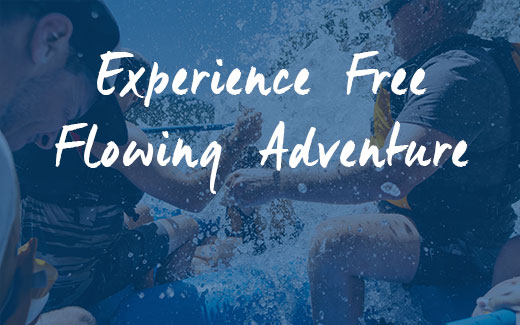
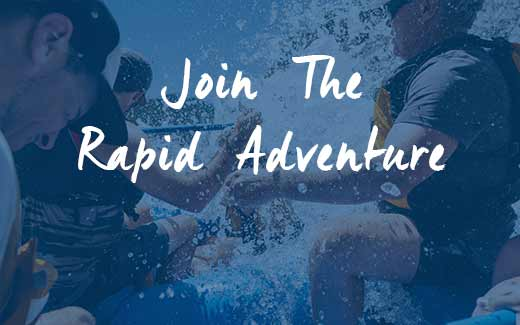
commit project update

Changed region(s): [[0.0923, 0.3692, 0.9231, 0.6154], [0.1846, 0.1538, 0.8308, 0.3385]]

diff --git a/project/index.html b/project/index.html
@@ -49,11 +49,8 @@
         <main>
             <div class="hero">
                 <picture>
-                    <source media="(max-width: 520px)" type="image/webp" srcset="" data-srcset="assets/hero-small.webp">
                     <source media="(max-width: 520px)" type="image/jpeg" srcset="" data-srcset="assets/hero-small.jpg">
-                    <source media="(max-width: 1020px)" type="image/webp" srcset="" data-srcset="assets/hero-med.webp">
                     <source media="(max-width: 1020px)" type="image/jpeg" srcset="" data-srcset="assets/hero-med.jpg">
-                    <source type="image/webp" data-srcset="assets/hero-large.webp">
                     <img src="" data-src="assets/hero-large.jpg" alt="River Rafting">
                 </picture>
                 <div class="CTA">
@@ -64,79 +61,6 @@
             </div>
 
             <section class="weather"></section>
-
-            <!--
-            <section class="blog">
-                <div class="main-article">
-                    <div>
-                        <picture>
-                            <source media="(max-width: 520px)" srcset="assets/small-main-article.jpg">
-                            <source media="(max-width: 1024px)" srcset="assets/med-main-article.jpg">
-                            <source media="(max-width: 1600px)" srcset="assets/large-main-article.jpg">
-                            <img data-src="assets/wide-main-article.jpg" alt="article-title">
-                        </picture>
-                    </div>
-                    <div class="overlay">
-                        <div class="text">
-                            <h3>7 TIPS FOR STAYING CLEAN ON THE RIVER</h3>
-                            <a class="ghost-btn" href="#">Read Blog</a>
-                        </div>
-                    </div>
-                </div>
-            
-                <div class="sub-article">
-                    <div class="container">
-                        <picture>
-                            <source media="(max-width: 520px)" srcset="assets/small-sub-article-1.jpg">
-                            <source media="(max-width: 1024px)" srcset="assets/med-sub-article-1.jpg">
-                            <source media="(max-width: 1600px)" srcset="assets/large-sub-article-1.jpg">
-                            <img data-src="assets/wide-sub-article-1.jpg" alt="article-title">
-                        </picture>
-                        <div class="overlay-small">
-                            <div class="text-small">
-                                <h3>UNDERSTANDING WHITEWATER CLASSIFICATIONS</h3>
-                                <a class="ghost-btn" href="#">Read Blog</a>
-                            </div>
-                        </div>
-                    </div>
-                    <div class="container">
-                        <picture>
-                            <source media="(max-width: 520px)" data-srcset="assets/small-sub-article-2.jpg">
-                            <source media="(max-width: 1024px)" data-srcset="assets/med-sub-article-2.jpg">
-                            <source media="(max-width: 1600px)" data-srcset="assets/large-sub-article-2.jpg">
-                            <img data-src="assets/wide-sub-article-2.jpg" alt="article-title">
-                        </picture>
-                        <div class="overlay-small-2">
-                            <div class="text-small">
-                                <h3>11 MAGICAL THINGS THAT HAPPEN DURING A FAMILY RAFTING TRIP</h3>
-                                <a class="ghost-btn" href="#">Read Blog</a>
-                            </div>
-                        </div>
-                    </div>
-                </div>
-            
-
-            <div>
-                <h3>7 TIPS FOR STAYING CLEAN ON THE RIVER</h3>
-                <p>
-                    Lorem ipsum dolor sit amet, consectetur adipiscing elit. Ut condimentum placerat dolor ac pellentesque. 
-                    Cras ut ullamcorper quam. Curabitur non massa ac tortor ultrices posuere. Cras ac erat tristique, 
-                    interdum orci non, sollicitudin tellus. Proin dictum leo in turpis fringilla vehicula. Cras tincidunt 
-                    ullamcorper turpis, vulputate ultrices elit mattis et. Donec interdum ante neque. Proin metus purus, 
-                    tempor ac hendrerit a, pharetra id sem. Curabitur rhoncus arcu eu diam pretium vulputate.
-                </p>
-                <p>
-                    Vivamus luctus ligula tortor, sit amet pulvinar diam bibendum nec. Duis hendrerit, augue et volutpat pretium, 
-                    mauris ante commodo massa, sit amet tincidunt nisl lorem vehicula lectus. Integer suscipit nec massa eget 
-                    consequat. Aliquam posuere eros sapien. Donec et lectus nec mi faucibus luctus in et enim. Etiam vel quam 
-                    laoreet, condimentum odio dictum, tristique neque. Sed sed aliquet est. Sed imperdiet orci sit amet accumsan 
-                    ultrices. Quisque fringilla aliquet efficitur. Curabitur nec libero feugiat, vehicula mi non, tristique est. 
-                    Quisque pharetra arcu mollis interdum consequat. Donec a sagittis orci. Donec ac erat sed enim bibendum sodales 
-                    non condimentum enim. Aenean vitae porttitor lacus, quis accumsan felis.
-                </p>
-            </div>
-            </section>
-            -->
             
             <section class="river">
                 <div>
@@ -253,13 +177,13 @@
                         <div>
                             <label>
                                 First Name
-                                <input type="text" name="name">
+                                <input type="text" name="name" required>
                             </label>
                         </div>
                         <div>
                             <label>
                                 Email Address
-                                <input type="email" name="email">
+                                <input type="email" name="email" required>
                             </label>
                         </div>
                         <div>

diff --git a/project/adventures.html b/project/adventures.html
@@ -53,60 +53,60 @@
                 <picture>
                     <source media="(max-width: 520px)" data-srcset="assets/hero-small-variant.jpg">
                     <source media="(max-width: 1020px)" data-srcset="assets/hero-med-variant.jpg">
-                    <img data-src="assets/hero-large.jpg" alt="River Rafting">
+                    <img data-src="assets/hero-large-variant.jpg" alt="River Rafting">
                 </picture>
             </div>
 
             <section class="trips">
                 <div class="trip-data">
                     <div>
-                        <img data-src="assets/salmon-trip-middle-1.jpg" alt="Middle Fork of the Salmon Rafting">
+                        <img src="" data-src="assets/salmon-trip-middle-1.jpg" alt="Middle Fork of the Salmon Rafting">
                     </div>
                     <div>
                         <h3>Middle Fork of the Salmon Rafting</h3>
                         <p>One of the most beautiful stretches of river in the West, the Middle Fork guarantees a wild ride with 
                             over a 100 rapids, natural hot springs and complete wilderness immersion
                         </p>
-                        <a href="adventures-trip-number1.html"><button class="book-btn">Explore</button></a>
+                        <button class="book-btn"><a href="adventures-trip-number1.html">Explore</a></button>
                     </div>
                 </div>
 
                 <div class="trip-data">
                     <div>
-                        <img data-src="assets/salmon-trip-middle-combo.jpg" alt="Middle Fork | Main Salmon River Rafting Combo">
+                        <img src="" data-src="assets/salmon-trip-middle-combo.jpg" alt="Middle Fork | Main Salmon River Rafting Combo">
                     </div>
                     <div>
                         <h3>Middle Fork | Main Salmon River Rafting Combo</h3>
                         <p>Experience two of the most beloved segments of the Salmon River as you’re treated to beautiful scenery, 
                             fragrant pine forests and abundant wildlife on this epic Idaho rafting trip
                         </p>
-                        <a href="adventures-trip-number2.html"><button class="book-btn">Explore</button></a>
+                        <button class="book-btn"><a href="adventures-trip-number2.html">Explore</a></button>
                     </div>
                 </div>
 
                 <div class="trip-data">
                     <div>
-                        <img data-src="assets/salmon-trip-lower.jpg" alt="Main Salmon | Lower Salmon River Rafting Combo">
+                        <img src="" data-src="assets/salmon-trip-lower.jpg" alt="Main Salmon | Lower Salmon River Rafting Combo">
                     </div>
                     <div>
                         <h3>Main Salmon | Lower Salmon River Rafting Combo</h3>
                         <p>This Idaho whitewater rafting adventure on the Main and Lower Salmon rivers offers stunning scenery 
                             along with the entire OARS fleet of water craft
                         </p>
-                        <a href="adventures-trip-number3.html"><button class="book-btn">Explore</button></a>
+                        <button class="book-btn"><a href="adventures-trip-number3.html">Explore</a></button>
                     </div>
                 </div>
 
                 <div class="trip-data">
                     <div>
-                        <img data-src="assets/salmon-trip-ultimate.jpg" alt="Ultimate Salmon River Experience">
+                        <img src="" data-src="assets/salmon-trip-ultimate.jpg" alt="Ultimate Salmon River Experience">
                     </div>
                     <div>
                         <h3>Ultimate Salmon River Experience</h3>
                         <p>Stunning scenery, thrilling whitewater, sandy beaches, hot springsand waterfalls await on this epic 
                             300-mile journey down the three forks of Idaho’s Salmon River
                         </p>
-                        <a href="adventures-trip-number4.html"><button class="book-btn">Explore</button></a>
+                       <button class="book-btn"><a href="adventures-trip-number4.html">Explore</a></button>
                     </div>
                 </div>
             </section>

diff --git a/project/css/styles-home.css b/project/css/styles-home.css
@@ -622,10 +622,13 @@ main section {
 .book-btn {
   padding: 1rem;
   font-size: 1.1rem;
+  font-weight: bold;
   background-color: #E10032;
-  color: #FFF;
   border: none;
   border-radius: 10px; }
+  .book-btn a {
+    color: #FFF;
+    text-decoration: none; }
 
 .book-btn:hover {
   background-color: #034687; }
@@ -715,6 +718,10 @@ footer {
       max-width: 12%; }
 
 @media only screen and (min-width: 32.5em) {
+  /* CTA */
+  .text-container {
+    top: 65%; }
+
   /* Weather Section */
   .weather {
     grid-template-columns: 1fr 1fr 1fr; }

diff --git a/project/book.html b/project/book.html
@@ -51,7 +51,7 @@
                 <picture>
                     <source media="(max-width: 520px)" srcset="assets/hero-small-variant.jpg">
                     <source media="(max-width: 1020px)" srcset="assets/hero-med-variant.jpg">
-                    <img src="assets/hero-large.jpg" alt="River Rafting">
+                    <img src="assets/hero-large-variant.jpg" alt="River Rafting">
                 </picture>
             </div>
 

diff --git a/project/contact.html b/project/contact.html
@@ -51,7 +51,7 @@
                 <picture>
                     <source media="(max-width: 520px)" srcset="assets/hero-small-variant.jpg">
                     <source media="(max-width: 1020px)" srcset="assets/hero-med-variant.jpg">
-                    <img src="assets/hero-large.jpg" alt="River Rafting">
+                    <img src="assets/hero-large-variant.jpg" alt="River Rafting">
                 </picture>
             </div>
 

diff --git a/project/guides.html b/project/guides.html
@@ -52,7 +52,7 @@
                 <picture>
                     <source media="(max-width: 520px)" srcset="assets/hero-small-variant.jpg">
                     <source media="(max-width: 1020px)" srcset="assets/hero-med-variant.jpg">
-                    <img src="assets/hero-large.jpg" alt="River Rafting">
+                    <img src="assets/hero-large-variant.jpg" alt="River Rafting">
                 </picture>
             </div>
 

diff --git a/project/css/styles-adventure.css b/project/css/styles-adventure.css
@@ -478,10 +478,13 @@ main section {
 .book-btn {
   padding: 1rem;
   font-size: 1.1rem;
+  font-weight: bold;
   background-color: #E10032;
-  color: #FFF;
   border: none;
   border-radius: 10px; }
+  .book-btn a {
+    color: #FFF;
+    text-decoration: none; }
 
 .book-btn:hover {
   background-color: #034687; }

diff --git a/project/scss/_small-adventure.scss b/project/scss/_small-adventure.scss
@@ -121,10 +121,15 @@ main section {
 .book-btn {
     padding: 1rem;
     font-size: 1.1rem;
+    font-weight: bold;
     background-color: #E10032;
-    color: #FFF;
     border: none;
     border-radius: 10px;
+
+    a {
+        color: #FFF;
+        text-decoration: none;
+    }
 }
 
 .book-btn:hover {

diff --git a/project/scss/_small.scss b/project/scss/_small.scss
@@ -304,10 +304,15 @@ main section {
 .book-btn {
     padding: 1rem;
     font-size: 1.1rem;
+    font-weight: bold;
     background-color: #E10032;
-    color: #FFF;
     border: none;
     border-radius: 10px;
+
+    a {
+        color: #FFF;
+        text-decoration: none;
+    }
 }
 
 .book-btn:hover {

diff --git a/project/scss/_medium.scss b/project/scss/_medium.scss
@@ -1,3 +1,9 @@
+/* CTA */
+
+.text-container {
+    top: 65%;
+}
+
 /* Weather Section */
 
 .weather {
